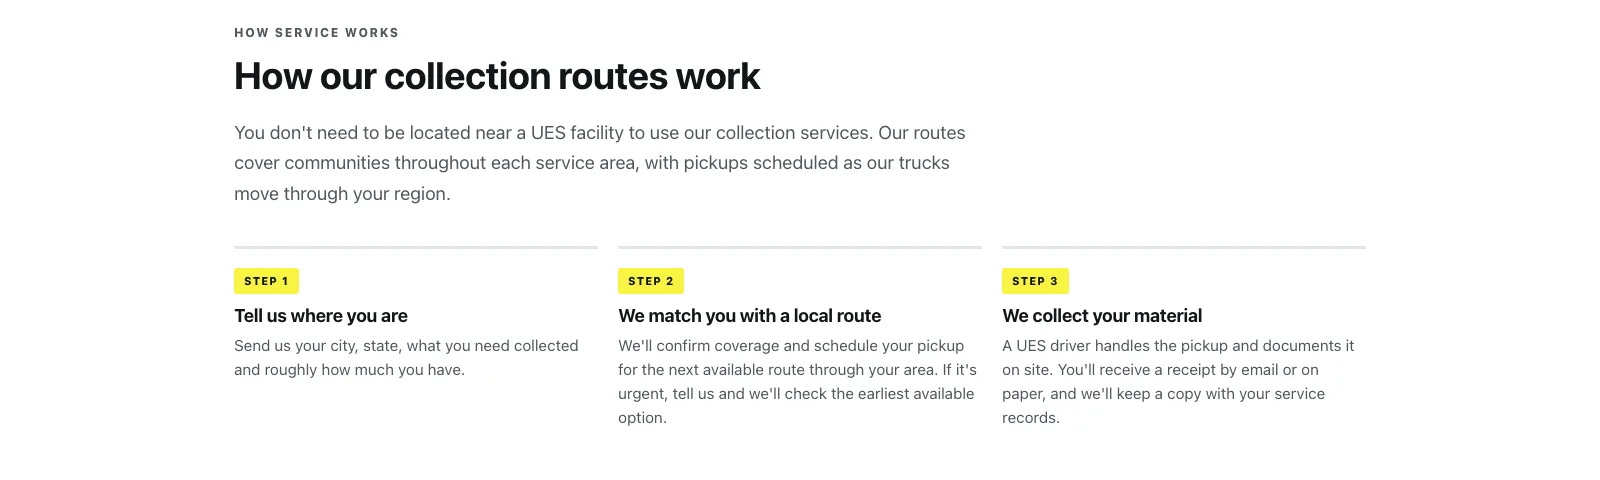
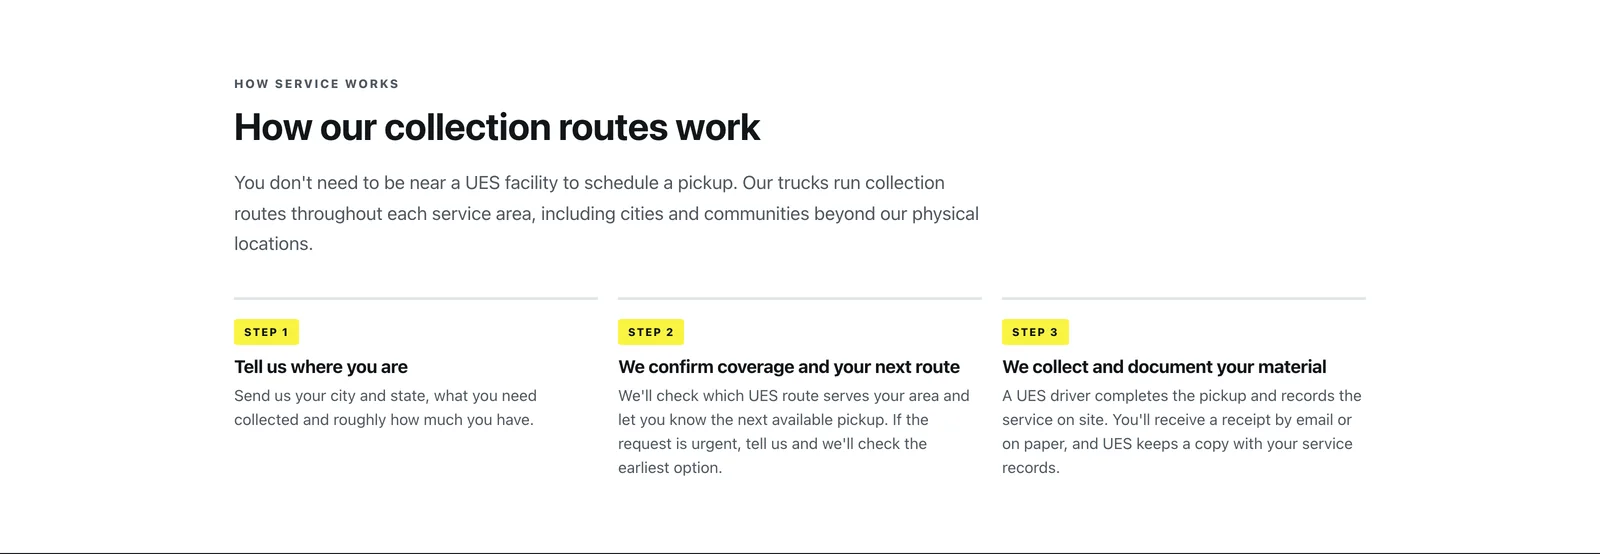
UES: gallery images from the live pages after the copy changes

Changed region(s): [[0.125, 0.5, 0.8438, 0.9062], [0.125, 0.125, 0.625, 0.4688], [0.1562, 0.0625, 0.25, 0.0938]]

diff --git a/src/data/project-walkthroughs.ts b/src/data/project-walkthroughs.ts
@@ -444,28 +444,28 @@ const ues: Walkthrough = {
         {
           src: `${uesImages}/loc-01-hero.webp`,
           width: 1600,
-          height: 740,
+          height: 833,
           alt: 'The top of the locations page: the headline "Locations and service areas across 28 states", two buttons, a photo of the plant and the yellow numbers strip.',
           caption: 'The top of the page: the headline, the two buttons and the numbers strip.',
         },
         {
           src: `${uesImages}/loc-02-map.webp`,
           width: 2360,
-          height: 1744,
-          alt: 'The Find UES service in your state section: the US map with 52 pins and a legend beside a two-column list of states, and a black bar that says "Not sure if we reach you?".',
+          height: 1742,
+          alt: 'The Find UES service in your state section: the US map with 52 pins and a legend beside a two-column list of states, and a black bar that says "Not sure if a route reaches your business?".',
           caption: 'The custom US map appears near the top of the page and shows current service coverage and facility locations. Visitors can choose their state directly from the page or open a facility on the map.',
         },
         {
           src: `${uesImages}/loc-03-scroller.webp`,
           width: 3200,
-          height: 1396,
+          height: 1772,
           alt: 'The 52 UES locations section: an intro paragraph, previous and next arrows, and a horizontal row of facility cards with the state, the city, the facility type, the street address, the phone number and a link to the state page.',
           caption: 'All UES facilities are also available as cards with the city, facility type, address, phone number and relevant state page. The cards use the same source data as the maps and state pages, which keeps the information consistent across the site.',
         },
         {
           src: `${uesImages}/loc-04-routes.webp`,
           width: 1600,
-          height: 480,
+          height: 554,
           alt: 'The How our collection routes work section: three numbered steps.',
           caption: 'A short section below explains how collection routes work and why a customer doesn\'t need a facility in their own city to receive service.',
         },
@@ -480,29 +480,29 @@ const ues: Walkthrough = {
         {
           src: `${uesImages}/ga-01-hero.webp`,
           width: 1600,
-          height: 700,
+          height: 864,
           alt: 'The top of the Georgia page: the headline "Used oil collection in Georgia", an on-this-page list and the yellow numbers strip.',
           caption: 'The top of the Georgia page: the state in the headline, a local introduction and an on-this-page list.',
         },
         {
           src: `${uesImages}/ga-02-facilities.webp`,
           width: 2360,
-          height: 1526,
-          alt: 'The Find your local facility section on the Georgia page: the state map with five pins next to five address cards.',
+          height: 1674,
+          alt: 'The Find the UES facility serving your area section on the Georgia page: the state map with five pins next to five address cards.',
           caption: 'Facility cards and map pins are generated from the same data, keeping addresses and locations in sync.',
         },
         {
           src: `${uesImages}/ga-03-services.webp`,
           width: 1600,
-          height: 590,
-          alt: 'The What UES collects section on the Georgia page: a list of all nine services with links, next to a photo of the plant.',
+          height: 711,
+          alt: 'The Environmental services available in Georgia section: a list of all nine services with links, next to a photo of the plant.',
           caption: 'Each state page includes the services available through UES and links visitors to the full service pages for more information.',
         },
         {
           src: `${uesImages}/ga-04-questions.webp`,
           width: 1600,
-          height: 440,
-          alt: 'The Common questions section on the Georgia page with four short questions and answers.',
+          height: 652,
+          alt: 'The Common questions section on the Georgia page with six short questions and answers.',
           caption: 'Short answers cover the questions customers are likely to have before requesting service.',
         },
       ],
@@ -537,14 +537,14 @@ const ues: Walkthrough = {
           src: `${uesImages}/page-hazardous-waste.webp`,
           width: 1600,
           height: 1000,
-          alt: 'The hazardous waste page: the headline "Hazardous waste removal and disposal for businesses", an on-this-page list, and the yellow numbers strip.',
+          alt: 'The hazardous waste page: the headline "Hazardous and special waste disposal for businesses", an on-this-page list, and the yellow numbers strip.',
           caption: 'The hazardous waste page uses the same page structure while giving a longer service topic room for its own navigation and supporting information.',
         },
         {
           src: `${uesImages}/uop-01-hero.webp`,
           width: 1600,
-          height: 900,
-          alt: 'The used oil pickup page: the headline "Used oil pickup and disposal for businesses in 28 states", an on-this-page list and the yellow numbers strip.',
+          height: 937,
+          alt: 'The used oil pickup page: the headline "Used oil pickup, recycling and disposal for businesses in 28 states", an on-this-page list and the yellow numbers strip.',
           caption: 'The main used oil service page explains collection and disposal, then connects visitors to local coverage through the US service map.',
         },
       ],
@@ -563,7 +563,7 @@ const ues: Walkthrough = {
         {
           src: `${uesImages}/after-locations.webp`,
           width: 1600,
-          height: 1690,
+          height: 1818,
           alt: 'The new locations page: the headline, the numbers strip, and the US map with the state list.',
           caption: 'After: the new page puts service coverage first, shows every facility on the custom map and gives visitors direct access to the state pages.',
         },
